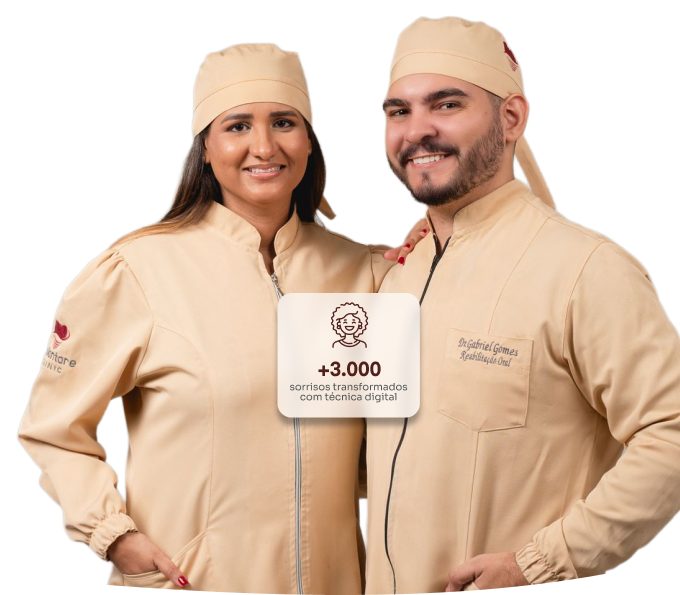
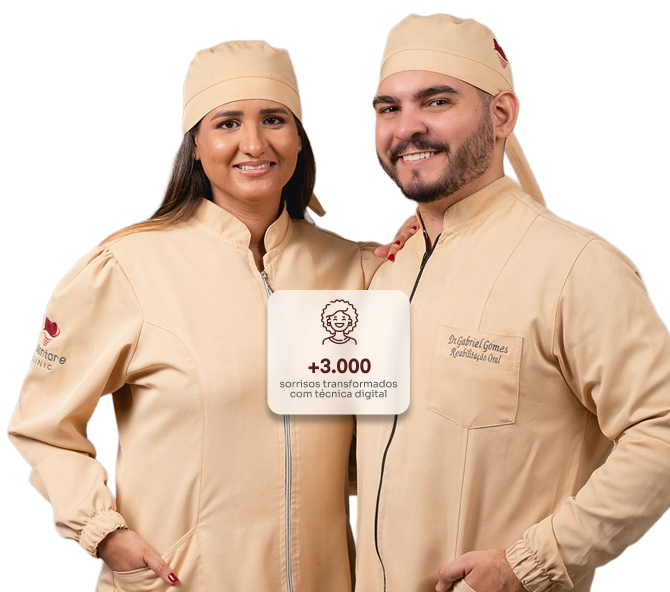
up

diff --git a/index.html b/index.html
@@ -22,7 +22,7 @@
   <meta name="twitter:description" content="description" />
   <meta name="twitter:image" content="./assets/image/preview.jpg" />
 
-  <title>Bootstrap demo</title>
+  <title>Implantare Clinic</title>
 
   <link rel="canonical" href="your website url" />
   <!-- <link rel="icon" href="https://drajoycejordana.com.br/assets/images/abc.png" type="image/x-icon" /> -->
@@ -40,7 +40,7 @@
 
   <div class="top-bar"></div>
 
-  <div class="background bg-secondary">
+  <!-- <div class="background bg-secondary">
     <header class="custom-header">
       <nav class="navbar navbar-expand-lg bg-body-tertiary-tirar-cor">
         <div class="container d-inline">
@@ -64,10 +64,10 @@
       </nav>
     </header>
 
-    <section class="first-page">
+    <section class="first-page container">
       <div class="row pt-3">
         <div class="col-md-1 d-none d-md-block"></div>
-        <div class="first-page-container col-12 col-md-5 ">
+        <div class="first-page-container col-12 col-md-5">
           <h1 class="pt-3 pb-3">Implante Dentário em Natal: Seu Sorriso Restaurado com Conforto, Tecnologia e
             Segurança</h1>
 
@@ -77,7 +77,6 @@
             de
             mais moderno em odontologia digital para transformar seu sorriso com conforto, agilidade e precisão.
           </p>
-          <!-- btn btn-primary w-100 w-md-auto -->
           <a class="btn btn-primary" target="_blank"
             href="https://wa.me/5584999438010?text=Ol%C3%A1%2C%20Implantare%20Clinic!%20Tudo%20bem%3F%0A%0AGostaria%20muito%20de%20agendar%20uma%20consulta%20com%20voc%C3%AAs.%20Poderia%2C%20por%20favor%2C%20me%20informar%20os%20pr%C3%B3ximos%20hor%C3%A1rios%20dispon%C3%ADveis%3F">
             Agendar consulta</a>
@@ -85,14 +84,69 @@
         </div>
 
         <div class="col-12 col-md-6 text-end p-0 ">
-          <!-- width="555" height="615" -->
+          <img src="./assets/images/abc.png" class="img-fluid">
+        </div>
+      </div>
+    </section>
+  </div>
+  <div class="m-0 p-0 faixa">
+    <img src="./assets/images/faixa.png" alt="">
+  </div>
+  </div> -->
+
+  <div class="background bg-secondary position-relative">
+    <header class="custom-header">
+      <nav class="navbar navbar-expand-lg bg-body-tertiary-tirar-cor">
+        <div class="container d-inline">
+          <ul class="navbar-nav align-items-center justify-content-between">
+            <li class="nav-item">
+              <a class="navbar-brand" href="#">
+                <img src="./assets/images/logo.png" alt="Logo do site - Site Test" width="347" height="62">
+              </a>
+            </li>
+            <li class="nav-item d-none d-lg-block"><a href="#sobre" class="nav-link"><strong>Sobre</strong></a></li>
+            <li class="nav-item d-none d-lg-block"><a href="#certificados-digitais"
+                class="nav-link"><strong>Certificados digitais</strong></a></li>
+            <li class="nav-item d-none d-lg-block"><a href="#conteudos" class="nav-link"><strong>Conteúdos</strong></a>
+            </li>
+            <li class="nav-item d-none d-lg-block"><a href="" class="nav-link"><strong>Contato</strong></a></li>
+          </ul>
+        </div>
+      </nav>
+    </header>
+
+    <section class="first-page container">
+      <div class="row pt-3">
+        <div class="col-md-1 d-none d-md-block"></div>
+        <div class="first-page-container col-12 col-md-5">
+          <h1 class="pt-3 pb-3">Implante Dentário em Natal: Seu Sorriso Restaurado com Conforto, Tecnologia e Segurança
+          </h1>
+          <p class="pb-4">A Implantare Clinic, combinamos a expertise clínica com mais de 3.000 sorrisos transformados e
+            o que há
+            de mais moderno em odontologia digital para transformar seu sorriso com conforto, agilidade e precisão.
+          </p>
+          <a class="btn btn-primary" target="_blank"
+            href="https://wa.me/5584999438010?text=Ol%C3%A1%2C%20Implantare%20Clinic!%20Tudo%20bem%3F%0A%0AGostaria%20muito%20de%20agendar%20uma%20consulta%20com%20voc%C3%AAs.%20Poderia%2C%20por%20favor%2C%20me%20informar%20os%20pr%C3%B3ximos%20hor%C3%A1rios%20dispon%C3%ADveis%3F">
+            Agendar consulta</a>
+        </div>
+
+        <!-- <div class="col-12 col-md-6 d-flex justify-content-end align-items-end p-0">
+          <img src="./assets/images/abc.png" class="img-fluid">
+        </div> -->
+        <div class="col-12 col-md-6 text-end p-0">
           <img src="./assets/images/abc.png" class="img-fluid">
         </div>
       </div>
     </section>
 
+    <div class="position-absolute bottom-0 start-0 w-100 m-0 p-0" style="z-index: 10;">
+      <img src="./assets/images/faixa.png" alt="faixa" class="img-fluid w-100">
+    </div>
+    
+
   </div>
-  </div>
+
+
 
   <section id="sobre" class="video bg-secondary">
     <div class="container">
@@ -960,14 +1014,8 @@
 
 
 
-  <!-- criar um background com a mesma cor e faixa vermelha -->
-  <!-- fazer igual como fez no outro site que a faixa fica entre os 2 -->
   <script src="./assets/js/bootstrap.bundle.min.js"></script>
-
   <script src="https://cdn.jsdelivr.net/npm/swiper@11/swiper-element-bundle.min.js"></script>
-
-  <!-- <script src="https://cdnjs.cloudflare.com/ajax/libs/Swiper/11.0.5/swiper-bundle.min.js"></script> -->
-  <!-- <script src="https://unpkg.com/aos@2.3.1/dist/aos.js"></script> -->
 </body>
 
 </html>

diff --git a/assets/css/style.css b/assets/css/style.css
@@ -20,7 +20,7 @@
 }
 
 .background {
-    background-image: url('../images/background-top.png');
+    background-image: url('../images/background-top1.png');
     background-size: cover;
 
     /* height: 100vh; */
@@ -350,7 +350,7 @@ swiper-slide {
 
     background-repeat: no-repeat;
     background-position: left center;
-    background-size: contain;
+    /* background-size: contain; */
     mix-blend-mode: multiply;
 }
 
@@ -567,7 +567,8 @@ swiper-slide {
     font-size: 16px;
 }
 
-.benefit-table {
+.benefit-table,
+.benefit-table .table {
     border-radius: 38px;
     background: #F6E6E9;
     box-shadow: -5px 6px 12.6px 0 rgba(0, 0, 0, 0.30);
@@ -637,7 +638,6 @@ swiper-slide {
 
 .benefit-table {
     overflow: visible !important;
-    /* permite imagem sair da tabela */
     position: relative;
 }
 
@@ -648,7 +648,6 @@ swiper-slide {
 .benefit-table th {
     position: relative;
     overflow: visible;
-    /* Permite que a imagem saia da célula */
 }
 
 .benefit-table img {
@@ -656,7 +655,6 @@ swiper-slide {
     top: -40%;
     left: 50%;
     transform: translateX(-50%);
-    /* width: 120px; */
 }
 
 footer h4 {
@@ -667,5 +665,4 @@ footer h4 {
 footer p {
     font-size: 16px;
     line-height: 24px;
-    /* 150% */
 }

diff --git a/assets/css/responsive.css b/assets/css/responsive.css
@@ -3,6 +3,7 @@
         margin: 0 auto;
         max-width: 80%;
     }
+
     .btn-primary {
         width: 100%;
     }
@@ -54,4 +55,34 @@
         padding: 3rem;
     }
 
+
+    /* .benefit-table {
+        border-radius: 38px;
+    }
+
+    .benefit-table table tr:first-child th:last-child {
+        border-bottom: none;
+        border-top-left-radius: 10px;
+        border-top-right-radius: 10px;
+    }
+    
+    .benefit-table table tr:last-child td:last-child {
+        border-end-start-radius:10px;
+        border-end-end-radius: 10px;
+    }
+
+    .benefit-table table {
+        padding-left: 8px;
+    } */
+    
+    .benefit th,
+    .benefit td {
+        padding: 0;
+        padding-top: 20px;
+        font-size: 12px;
+    }
+
+    .benefit-table table td:last-child {
+        font-size: 12px;
+    }
 }
